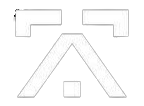
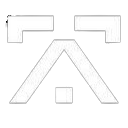
add NotFound.jsx

diff --git a/src/App.jsx b/src/App.jsx
@@ -6,96 +6,10 @@ import Footer from './components/Footer'
 import Project from './pages/Project'
 import { Route, Routes } from 'react-router-dom'
 import ProjectDetails from './pages/ProjectDetails'
-
+import projects from "./data/projects";
+import NotFound from './pages/NotFound'
 
 const App = () => {
-  const projects = [
-    {
-      id: 1,
-      projectURL: "youtube-clone",
-      title: "YouTube-Clone",
-      image: "/youtube.png",
-      description:
-        "A full-stack YouTube clone built with the MERN stack, featuring user authentication, video browsing, search functionality, responsive design, and a clean, modern interface for an engaging user experience.",
-      overview:
-        "YouTube Clone is a full-stack MERN web application inspired by YouTube, designed to provide a modern video-sharing experience. Users can browse videos, register and log in securely using JWT authentication, create channels, upload and manage videos, and interact through comments. The application features a responsive React-based interface, RESTful APIs built with Node.js and Express.js, and MongoDB for efficient data storage. It demonstrates full-stack development concepts, including authentication, CRUD operations, protected routes, and responsive UI design.",
-      technologies: [
-        "React.js",
-        "Tailwind CSS",
-        "JavaScript",
-        "Node.js",
-        "MongoDB",
-        "REST API",
-        "Axios",
-        "React Router DOM",
-        "Git & GitHub",
-      ],
-      features: [
-        "Browse and Watch Videos with a responsive interface.",
-        "Search Videos by title for quick access.",
-        "Responsive Design optimized for desktop and mobile devices.",
-        "Built a full-stack YouTube Clone using the MERN Stack (MongoDB, Express.js, React.js, Node.js).",
-        "Added comment functionality to enable user interaction on videos.",
-      ],
-      github: "https://github.com/Tanuj-2531/YouTube-Clone",
-      live: "https://youtube-clone-pink-psi.vercel.app/",
-    },
-    {
-      id: 2,
-      projectURL: "library",
-      title: "Library-Management-System",
-      image: "/library.png",
-      description:
-        "Designed and developed a frontend-based Library Management System featuring book listing, search functionality, category organization, responsive layouts, and an interactive user interface for efficient library management.",
-      overview:
-        "Online Library System is a responsive web application that simplifies library management by allowing users to browse, search, and manage books through an intuitive interface. It provides an organized catalog with category-based navigation and an efficient book management system, delivering a smooth and user-friendly experience. Built with modern frontend technologies, the project focuses on responsive design, clean UI, and seamless navigation across devices.",
-      technologies: [
-        "HTML5",
-        "CSS3",
-        "JavaScript (ES6+)",
-        "React.js",
-        "Tailwind CSS",
-        "React Router DOM",
-        "Local Storage",
-      ],
-      features: [
-        "Book Listing with organized library records.",
-        "Category-Based Organization for easy navigation.",
-        "Fast and User-Friendly Navigation for seamless usability.",
-        "Implemented book search and category-based filtering for quick and efficient navigation.",
-        "Created a responsive layout using React.js and Tailwind CSS, ensuring compatibility across desktop, tablet, and mobile devices.",
-      ],
-      github: "https://github.com/Tanuj-2531/Online-library-system",
-      live: "https://online-library-system-sepia.vercel.app/",
-    },
-    {
-      id: 3,
-      projectURL: "textflow",
-      title: "Textflow-Write Better",
-      image: "/textflow.png",
-      description:
-        "Developed a responsive text utility application that enables users to transform, format, and analyze text with features like case conversion, word counting, character counting, and extra space removal.",
-      overview:
-        "TextFlow is a responsive text utility web application designed to simplify text editing and formatting tasks. It enables users to perform operations such as case conversion, text cleaning, word and character counting, and copy text with ease. Built with React.js, the application focuses on fast performance, an intuitive user interface, and a seamless user experience across different devices.",
-      technologies: [
-        "HTML5",
-        "CSS3",
-        "JavaScript (ES6+)",
-        "React.js",
-        "Tailwind CSS",
-        "React Router DOM",
-      ],
-      features: [
-        "Convert Text between uppercase and lowercase instantly.",
-        "Count Words and Characters in real time.",
-        "Remove Extra Spaces for clean and formatted text.",
-        "Implemented multiple text transformation features, including uppercase, lowercase, sentence case, and title case conversion.",
-        "Built text formatting utilities such as remove extra spaces, clear text, and copy-to-clipboard functionality.",
-      ],
-      github: "https://github.com/Tanuj-2531/Textflow-Write-Better",
-      live: "https://textflow-write-better.vercel.app/",
-    },
-  ];
   return (
     <div className='font-mono'>
       <Navbar />
@@ -108,6 +22,7 @@ const App = () => {
         <Route path='/about' element={<About />} />
         <Route path='/project' element={<Project projects={projects} />} />
         <Route path='/project/:projectURL' element={<ProjectDetails projects={projects} />}/>
+        <Route path='*' element={<NotFound />} />
       </Routes>
       <Footer />
     </div>

diff --git a/src/data/projects.js b/src/data/projects.js
@@ -1,0 +1,89 @@
+const projects = [
+    {
+      id: 1,
+      projectURL: "youtube-clone",
+      title: "YouTube-Clone",
+      image: "/youtube.png",
+      description:
+        "A full-stack YouTube clone built with the MERN stack, featuring user authentication, video browsing, search functionality, responsive design, and a clean, modern interface for an engaging user experience.",
+      overview:
+        "YouTube Clone is a full-stack MERN web application inspired by YouTube, designed to provide a modern video-sharing experience. Users can browse videos, register and log in securely using JWT authentication, create channels, upload and manage videos, and interact through comments. The application features a responsive React-based interface, RESTful APIs built with Node.js and Express.js, and MongoDB for efficient data storage. It demonstrates full-stack development concepts, including authentication, CRUD operations, protected routes, and responsive UI design.",
+      technologies: [
+        "React.js",
+        "Tailwind CSS",
+        "JavaScript",
+        "Node.js",
+        "MongoDB",
+        "REST API",
+        "Axios",
+        "React Router DOM",
+        "Git & GitHub",
+      ],
+      features: [
+        "Browse and Watch Videos with a responsive interface.",
+        "Search Videos by title for quick access.",
+        "Responsive Design optimized for desktop and mobile devices.",
+        "Built a full-stack YouTube Clone using the MERN Stack (MongoDB, Express.js, React.js, Node.js).",
+        "Added comment functionality to enable user interaction on videos.",
+      ],
+      github: "https://github.com/Tanuj-2531/YouTube-Clone",
+      live: "https://youtube-clone-pink-psi.vercel.app/",
+    },
+    {
+      id: 2,
+      projectURL: "library",
+      title: "Library-Management-System",
+      image: "/library.png",
+      description:
+        "Designed and developed a frontend-based Library Management System featuring book listing, search functionality, category organization, responsive layouts, and an interactive user interface for efficient library management.",
+      overview:
+        "Online Library System is a responsive web application that simplifies library management by allowing users to browse, search, and manage books through an intuitive interface. It provides an organized catalog with category-based navigation and an efficient book management system, delivering a smooth and user-friendly experience. Built with modern frontend technologies, the project focuses on responsive design, clean UI, and seamless navigation across devices.",
+      technologies: [
+        "HTML5",
+        "CSS3",
+        "JavaScript (ES6+)",
+        "React.js",
+        "Tailwind CSS",
+        "React Router DOM",
+        "Local Storage",
+      ],
+      features: [
+        "Book Listing with organized library records.",
+        "Category-Based Organization for easy navigation.",
+        "Fast and User-Friendly Navigation for seamless usability.",
+        "Implemented book search and category-based filtering for quick and efficient navigation.",
+        "Created a responsive layout using React.js and Tailwind CSS, ensuring compatibility across desktop, tablet, and mobile devices.",
+      ],
+      github: "https://github.com/Tanuj-2531/Online-library-system",
+      live: "https://online-library-system-sepia.vercel.app/",
+    },
+    {
+      id: 3,
+      projectURL: "textflow",
+      title: "Textflow-Write Better",
+      image: "/textflow.png",
+      description:
+        "Developed a responsive text utility application that enables users to transform, format, and analyze text with features like case conversion, word counting, character counting, and extra space removal.",
+      overview:
+        "TextFlow is a responsive text utility web application designed to simplify text editing and formatting tasks. It enables users to perform operations such as case conversion, text cleaning, word and character counting, and copy text with ease. Built with React.js, the application focuses on fast performance, an intuitive user interface, and a seamless user experience across different devices.",
+      technologies: [
+        "HTML5",
+        "CSS3",
+        "JavaScript (ES6+)",
+        "React.js",
+        "Tailwind CSS",
+        "React Router DOM",
+      ],
+      features: [
+        "Convert Text between uppercase and lowercase instantly.",
+        "Count Words and Characters in real time.",
+        "Remove Extra Spaces for clean and formatted text.",
+        "Implemented multiple text transformation features, including uppercase, lowercase, sentence case, and title case conversion.",
+        "Built text formatting utilities such as remove extra spaces, clear text, and copy-to-clipboard functionality.",
+      ],
+      github: "https://github.com/Tanuj-2531/Textflow-Write-Better",
+      live: "https://textflow-write-better.vercel.app/",
+    },
+];
+
+export default projects

diff --git a/src/pages/NotFound.jsx b/src/pages/NotFound.jsx
@@ -1,0 +1,26 @@
+import React, { useContext } from 'react'
+import { Link } from "react-router-dom";
+import { ThemeDataContext } from '../Context/ThemeContext';
+
+const NotFound = () => {
+    const [theme, setTheme] = useContext(ThemeDataContext)
+  return (
+    <div className={`${theme === 'dark' ? 'bg-[#252526] text-white' : 'bg-[#efeee8] text-[#111]'} flex flex-col min-h-screen items-center justify-center px-4 py-8 lg:px-0 lg:py-0`}>
+      <div className={`${theme === 'dark' ? 'shadow-white/30' : 'shadow-black/30'} w-full max-w-xl lg:max-w-2xl mx-auto text-center shadow-lg rounded-2xl`}>
+        <div className={`${theme === 'dark' ? 'invert hue-rotate-180 ' : ''} flex h-100 items-center justify-center bg-center bg-no-repeat object-cover rounded-2xl`} style={{
+            backgroundImage:
+              "url('/404.gif')",
+          }}>
+            <h1 className="text-5xl lg:text-7xl font-bold mb-70 font-serif text-black">404</h1>
+        </div>
+      </div>
+      <div className="flex flex-col justify-center items-center text-center px-4">
+        <h3 className="text-2xl md:text-3xl font-extrabold mt-8">Looks like you're lost</h3>
+        <p className="mt-2 text-sm md:text-base text-gray-500 font-semibold">The page you are looking for is not available!</p>
+        <Link to="/" className="mt-4 rounded-lg bg-green-600 px-6 py-3 font-bold text-white hover:bg-green-700 hover:scale-110 font-serif">Go to Home</Link>
+      </div>
+    </div>
+  )
+}
+
+export default NotFound

diff --git a/src/components/Navbar.jsx b/src/components/Navbar.jsx
@@ -20,7 +20,7 @@ const Navbar = () => {
     setTheme(theme === 'dark' ? 'light' : 'dark')
   }
   return (
-    <div className={`${theme === 'dark' ? 'bg-[#1e1e1e]/30 text-white' : 'bg-[#e5e3d9]/30 text-[#111]'} backdrop-blur-md shadow-md flex items-center justify-between z-50 rounded-full fixed h-15 top-4 left-15 right-15 md:left-25 md:right-25`}>
+    <div className={`${theme === 'dark' ? 'bg-[#1e1e1e]/30 text-white' : 'bg-[#e5e3d9]/30 text-[#111]'} backdrop-blur-md shadow-lg flex items-center justify-between z-50 rounded-full fixed h-15 top-4 left-15 right-15 md:left-25 md:right-25`}>
       <Link to='/' onClick={() => window.scrollTo({ top: 0, behavior: "smooth" })} className='p-4 md:p-15 flex items-center'>
           <img className={`h-15 md:h-25 ${theme === "dark" ? "invert-0" : "invert"}`} src="/logo.png" alt="" />
           <h1 className='text-lg md:text-xl lg:text-2xl font-bold'>Tanuj Agarwal</h1>